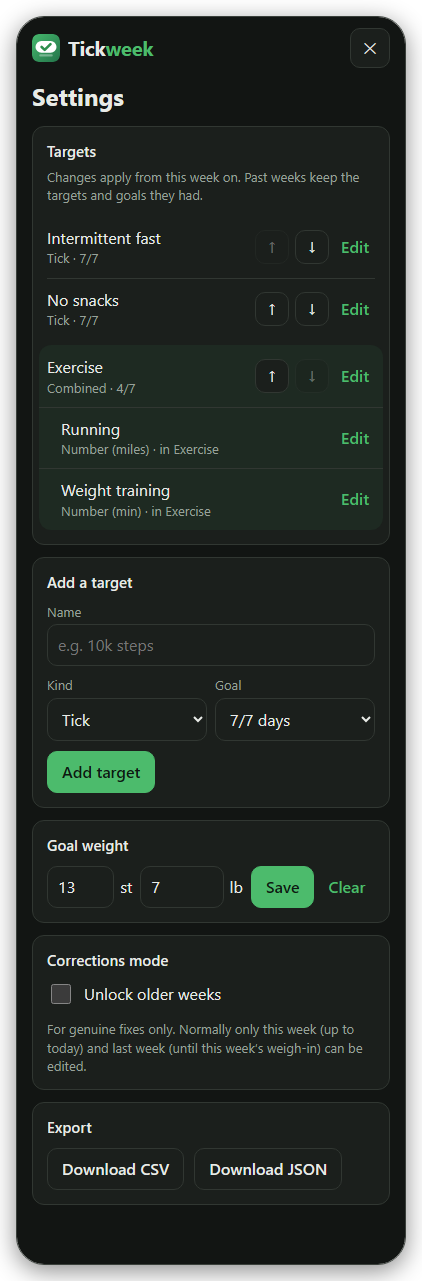
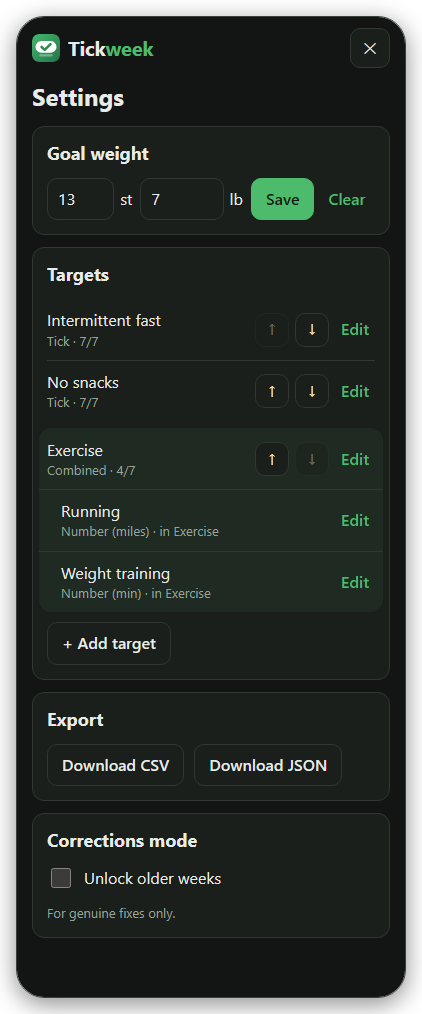
Release 0.8.0: tidier Settings, delete retired targets (#26)
- Settings order: Goal weight, Targets (+ Add target opens the form in place), Retired, Export, Corrections last.
  Bigger card titles.
- Edit form shows the kind as a pill at the top; footer notes removed. Combined checklist labelled "Made up of",
  one per line, ticked ones first. Kind dropdown says what each kind is.
- Retired targets can be deleted for good (asks first; removes entries from every week). DELETE /api/targets/:id,
  retired only. Test added.
- Retire/Delete shown in red. Shorter copy.
- README Settings screenshots retaken; package.json and docker run tag bumped. No database change.

diff --git a/public/js/settings.js b/public/js/settings.js
@@ -12,15 +12,19 @@ const goalOptions = (sel, none) => [
 ];
 const byId = (id) => targets.find((t) => t.id === id);
 const sourcesOf = (t) => targets.filter((s) => s.part_of === t.id && !s.archived_at);
+/** Label over a combined target's checkboxes. */
+const SOURCES_LABEL = 'Made up of';
 const kindLabel = (t) => (t.kind === 'tick' ? 'Tick' : t.kind === 'number' ? `Number${t.unit ? ` (${t.unit})` : ''}` : 'Combined');
 function describe(t) {
   const goal = t.goal_days != null ? `${t.goal_days}/7` : t.part_of && byId(t.part_of) ? `in ${byId(t.part_of).name}` : 'no goal';
   const from = t.kind === 'combined' && !sourcesOf(t).length ? ' · counts nothing yet' : '';
   return `${kindLabel(t)}${from} · ${goal}`;
 }
-/** Checkboxes for a combined target's sources: every active tick/number target. */
+/** Checkboxes for a combined target's sources: every active tick/number target, one per line, picked ones first. */
 function sourceChecks(selfId, picked) {
-  return h('div', { class: 'checks' }, targets.filter((t) => !t.archived_at && t.kind !== 'combined').map((t) =>
+  const pool = targets.filter((t) => !t.archived_at && t.kind !== 'combined');
+  const sorted = [...pool.filter((t) => picked.includes(t.id)), ...pool.filter((t) => !picked.includes(t.id))];
+  return h('div', { class: 'checks' }, sorted.map((t) =>
     h('label', { class: 'chk' },
       h('input', { type: 'checkbox', value: t.id, checked: picked.includes(t.id) }),
       t.name,
@@ -55,6 +59,8 @@ function renderTargets() {
   $('archivedcard').classList.toggle('hidden', !archived.length);
   $('archived').replaceChildren(...archived.map((t) => h('li', {},
     h('div', { class: 'info' }, h('div', {}, t.name), h('div', { class: 'meta' }, describe(t))),
+    h('button', { class: 'btn link danger', onclick: () => confirm(`Delete “${t.name}” forever? Its ticks go from every past week too, so old scores change. This can’t be undone.`)
+      && act(`/api/targets/${t.id}`, 'DELETE', null, 'Deleted') }, 'Delete'),
     h('button', { class: 'btn', onclick: () => act(`/api/targets/${t.id}/unarchive`, 'POST', null, 'Restored') }, 'Restore'),
   )));
 }
@@ -85,19 +91,21 @@ function editRow(t) {
     const body = { name: name.value, unit: unit?.value };
     if (goal) body.goal_days = goal.value === '' ? null : Number(goal.value);
     if (checks) body.sources = checkedIds(checks);
-    act(`/api/targets/${t.id}`, 'PATCH', body, 'Saved').then((ok) => { if (ok) editingId = null; renderTargets(); });
+    act(`/api/targets/${t.id}`, 'PATCH', body, 'Saved, from this week on').then((ok) => { if (ok) editingId = null; renderTargets(); });
   };
   const freed = combined ? sourcesOf(t).map((s) => s.name) : [];
   const retireMsg = `Retire “${t.name}”? It disappears from this week on; its history stays.`
     + (freed.length ? ` ${freed.join(' and ')} will have no goal until you set one.` : '');
   return h('li', {},
     h('div', { class: 'form', style: 'flex:1' },
+      h('div', { class: 'edithead' }, h('span', { class: `pill kind${combined ? ' combined' : ''}` }, kindLabel(t)),
+        src ? h('span', { class: 'small muted' }, `in ${byId(t.part_of).name}`) : null),
       h('label', {}, h('span', {}, 'Name'), name),
       h('div', { class: 'two' },
         unit ? h('label', {}, h('span', {}, 'Unit'), unit) : null,
         goal ? h('label', {}, h('span', {}, 'Goal'), goal) : null,
       ),
-      checks ? h('div', {}, h('span', { class: 'small muted' }, 'Counts'), checks) : null,
+      checks ? h('div', {}, h('span', { class: 'small muted srclabel' }, SOURCES_LABEL), checks) : null,
       h('div', { class: 'row' },
         h('button', { class: 'btn primary', onclick: save }, 'Save'),
         h('button', { class: 'btn link', onclick: () => { editingId = null; renderTargets(); } }, 'Cancel'),
@@ -107,9 +115,6 @@ function editRow(t) {
             && act(`/api/targets/${t.id}/archive`, 'POST', null, 'Retired').then((ok) => { if (ok) { editingId = null; renderTargets(); } }),
         }, 'Retire'),
       ),
-      h('div', { class: 'small muted' }, src
-        ? `Counts towards ${byId(t.part_of).name}, so it has no goal of its own`
-        : `${kindLabel(t).split(' ')[0]} target (the kind can’t change once created)`),
     ),
   );
 }
@@ -138,6 +143,11 @@ function syncKind() {
   const sel = F.goal_days.value === '' ? null : Number(F.goal_days.value);
   F.goal_days.replaceChildren(...goalOptions(k === 'combined' ? sel ?? 4 : sel, k !== 'combined').filter(Boolean));
 }
+form.querySelector('.srclabel').textContent = SOURCES_LABEL;
+const openAdd = (open) => { form.classList.toggle('hidden', !open); $('addopen').classList.toggle('hidden', open); if (open) F.name.focus(); };
+function closeAdd() { form.reset(); syncKind(); openAdd(false); }
+$('addopen').addEventListener('click', () => openAdd(true));
+$('addcancel').addEventListener('click', closeAdd);
 F.goal_days.append(...goalOptions(7, true).filter(Boolean));
 F.kind.addEventListener('change', syncKind);
 form.addEventListener('submit', async (e) => {
@@ -145,7 +155,7 @@ form.addEventListener('submit', async (e) => {
   const body = { name: F.name.value, kind: F.kind.value, unit: F.unit.value, goal_days: F.goal_days.value === '' ? null : Number(F.goal_days.value) };
   if (body.kind === 'combined') body.sources = checkedIds($('addsources'));
   const ok = await act('/api/targets', 'POST', body, 'Added');
-  if (ok) { form.reset(); syncKind(); renderAddSources(); }
+  if (ok) { closeAdd(); renderAddSources(); }
 });
 
 // ---------- goal weight + corrections ----------

diff --git a/public/settings.html b/public/settings.html
@@ -14,7 +14,7 @@
   <meta name="apple-mobile-web-app-title" content="Tickweek">
   <meta name="apple-mobile-web-app-status-bar-style" content="black-translucent">
 </head>
-<body>
+<body class="settings">
 <main>
   <header class="top">
     <a class="brand" href="/"><img src="/icons/favicon.svg" alt="" width="28" height="28"><span class="wm">Tick<span>week</span></span></a>
@@ -22,32 +22,6 @@
   </header>
 
   <h1 class="pagetitle">Settings</h1>
-
-  <section class="card">
-    <h2>Targets</h2>
-    <p class="small muted" style="margin-top:-4px">Changes apply from this week on. Past weeks keep the targets and goals they had.</p>
-    <ul class="tlist" id="targets"></ul>
-  </section>
-
-  <section class="card">
-    <h2>Add a target</h2>
-    <form class="form" id="addform" autocomplete="off">
-      <label><span>Name</span><input type="text" name="name" maxlength="40" required placeholder="e.g. 10k steps"></label>
-      <div class="two">
-        <label><span>Kind</span>
-          <select name="kind">
-            <option value="tick">Tick</option>
-            <option value="number">Number</option>
-            <option value="combined">Combined</option>
-          </select>
-        </label>
-        <label class="unitfield hidden"><span>Unit</span><input type="text" name="unit" maxlength="12" placeholder="miles, min…"></label>
-        <label><span>Goal</span><select name="goal_days"></select></label>
-      </div>
-      <div class="sourcesfield hidden"><span class="small muted">Counts</span><div id="addsources"></div></div>
-      <div><button class="btn primary" type="submit">Add target</button></div>
-    </form>
-  </section>
 
   <section class="card">
     <h2>Goal weight</h2>
@@ -60,14 +34,33 @@
   </section>
 
   <section class="card">
-    <h2>Corrections mode</h2>
-    <label class="switch"><input type="checkbox" id="corrections"> Unlock older weeks</label>
-    <p class="small muted" style="margin-bottom:0">For genuine fixes only. Normally only this week (up to today) and last week (until this week’s weigh-in) can be edited.</p>
+    <h2>Targets</h2>
+    <ul class="tlist" id="targets"></ul>
+    <button class="btn" id="addopen" type="button">+ Add target</button>
+    <form class="form addform hidden" id="addform" autocomplete="off">
+      <label><span>Name</span><input type="text" name="name" maxlength="40" required placeholder="e.g. 10k steps"></label>
+      <label><span>Kind</span>
+        <select name="kind">
+          <option value="tick">Tick: done or not</option>
+          <option value="number">Number: miles, min…</option>
+          <option value="combined">Combined: any of others</option>
+        </select>
+      </label>
+      <div class="two">
+        <label class="unitfield hidden"><span>Unit</span><input type="text" name="unit" maxlength="12" placeholder="miles, min…"></label>
+        <label><span>Goal</span><select name="goal_days"></select></label>
+      </div>
+      <div class="sourcesfield hidden"><span class="small muted srclabel"></span><div id="addsources"></div></div>
+      <div class="row">
+        <button class="btn primary" type="submit">Add</button>
+        <button class="btn link" type="button" id="addcancel">Cancel</button>
+      </div>
+    </form>
   </section>
 
   <section class="card hidden" id="archivedcard">
     <h2>Retired targets</h2>
-    <p class="small muted" style="margin-top:-4px">History and records are kept. Restoring adds the target back from this week on.</p>
+    <p class="small muted" style="margin-top:-4px">History kept. Restore adds it back from this week; Delete removes it for good.</p>
     <ul class="tlist" id="archived"></ul>
   </section>
 
@@ -77,6 +70,12 @@
       <a class="btn" href="/api/export.csv" download>Download CSV</a>
       <a class="btn" href="/api/export.json" download>Download JSON</a>
     </div>
+  </section>
+
+  <section class="card">
+    <h2>Corrections mode</h2>
+    <label class="switch"><input type="checkbox" id="corrections"> Unlock older weeks</label>
+    <p class="small muted" style="margin-bottom:0">For genuine fixes only.</p>
   </section>
 </main>
 <script type="module" src="/js/settings.js"></script>

diff --git a/public/style.css b/public/style.css
@@ -162,7 +162,8 @@ input.n3 { width: 5.2em; }
 }
 a.btn { display: inline-block; text-decoration: none; color: var(--text); }
 .btn.primary { background: var(--accent); border-color: var(--accent); color: var(--accent-text); }
-.btn.danger { color: var(--danger); }
+.btn.danger, .btn.link.danger { color: var(--danger); }
+.settings .card h2 { font-size: 18px; font-weight: 700; margin-bottom: 12px; }
 .btn.link { border: 0; background: none; color: var(--accent); padding: 4px 6px; font-weight: 500; }
 .btn:disabled { opacity: .5; cursor: default; }
 
@@ -194,8 +195,12 @@ dialog.pad::backdrop { background: rgba(0,0,0,.45); }
 .form .two > * { flex: 1; min-width: 120px; }
 .form label > span { display: block; font-size: 13px; color: var(--muted); margin-bottom: 3px; }
 .form input, .form select { width: 100%; }
-.checks { display: flex; flex-wrap: wrap; gap: 6px 16px; margin-top: 4px; }
-.checks .chk { display: inline-flex; align-items: center; gap: 6px; }
+.checks { display: grid; gap: 8px; margin-top: 6px; }
+.checks .chk { display: flex; align-items: center; gap: 8px; }
+.edithead { display: flex; align-items: center; gap: 8px; }
+.pill.kind.combined { background: var(--accent-soft); color: var(--accent); font-weight: 600; }
+#addopen { margin-top: 10px; }
+.addform { margin-top: 12px; padding-top: 12px; border-top: 1px solid var(--line); }
 .form .checks input { width: 18px; height: 18px; accent-color: var(--accent); }
 .tlist li.src { padding-left: 14px; }
 .tlist li.grp { margin: 0 -8px; padding-left: 8px; padding-right: 8px; background: color-mix(in srgb, var(--accent) 7%, var(--surface)); }

diff --git a/test/api.test.js b/test/api.test.js
@@ -110,6 +110,17 @@ test('target changes apply from the current week on; past snapshot is kept', asy
   assert.ok(last.targets.some((t) => t.name === 'No snacks'));
 });
 
+test('only a retired target can be deleted, with its entries and snapshots', async () => {
+  const { body: tmp } = await call('POST', '/api/targets', { name: 'Temp', kind: 'tick', goal_days: 3 });
+  await call('PUT', '/api/entry', { date: (await call('GET', '/api/week')).body.monday, target_id: tmp.id, value: 1 });
+  assert.equal((await call('DELETE', `/api/targets/${tmp.id}`)).status, 400);
+  await call('POST', `/api/targets/${tmp.id}/archive`);
+  assert.equal((await call('DELETE', `/api/targets/${tmp.id}`)).status, 200);
+  assert.ok(!(await call('GET', '/api/targets')).body.some((t) => t.name === 'Temp'));
+  assert.ok(!(await call('GET', '/api/week')).body.targets.some((t) => t.name === 'Temp'));
+  assert.equal((await call('GET', '/api/history')).status, 200);
+});
+
 test('validation', async () => {
   assert.equal((await call('POST', '/api/targets', { name: '', kind: 'tick' })).status, 400);
   assert.equal((await call('POST', '/api/targets', { name: 'x', kind: 'tick', goal_days: 8 })).status, 400);

diff --git a/src/db.js b/src/db.js
@@ -124,6 +124,10 @@ export function makeRepo(db) {
     clearSources: db.prepare('UPDATE target SET part_of = NULL WHERE part_of = ?'),
     addSource: db.prepare('UPDATE target SET part_of = ?, goal_days = NULL WHERE id = ?'),
     leave: db.prepare('UPDATE target SET part_of = NULL WHERE id = ?'),
+    purgeEntries: db.prepare('DELETE FROM entry WHERE target_id = ?'),
+    purgeSnapshots: db.prepare('DELETE FROM week_target WHERE target_id = ?'),
+    ungroupSnapshots: db.prepare('UPDATE week_target SET part_of = NULL WHERE part_of = ?'),
+    deleteTarget: db.prepare('DELETE FROM target WHERE id = ?'),
   };
 
   const repo = {
@@ -221,6 +225,16 @@ export function makeRepo(db) {
       })();
     },
     unarchive: (id) => q.unarchive.run(q.maxSort.get().m + 1, id),
+    /** Deleting a retired target removes it everywhere, past weeks included (their scores change). */
+    remove(id) {
+      db.transaction(() => {
+        q.clearSources.run(id);
+        q.ungroupSnapshots.run(id);
+        q.purgeEntries.run(id);
+        q.purgeSnapshots.run(id);
+        q.deleteTarget.run(id);
+      })();
+    },
   };
 
   function writeSnapshot(monday) {

diff --git a/public/help.html b/public/help.html
@@ -71,7 +71,7 @@
   <section class="card">
     <h2>5 · Settings</h2>
     <ul>
-      <li>Add, rename, reorder or retire targets, and set how many days a week each one asks for.</li>
+      <li>Add, rename, reorder or retire targets (a retired one can be deleted for good), and set how many days a week each one asks for.</li>
       <li>A combined target counts other targets together. Those count towards it and have no goal of their own.</li>
       <li>Set your goal weight.</li>
       <li>Changes apply from this week on. Past weeks keep the targets they had.</li>

diff --git a/src/app.js b/src/app.js
@@ -241,6 +241,14 @@ export function createApp({ repo, now = () => new Date() }) {
     res.json(repo.target(t.id));
   });
 
+  app.delete('/api/targets/:id', (req, res) => {
+    const t = mustTarget(req.params.id);
+    if (!t.archived_at) fail('retire it first');
+    repo.remove(t.id);
+    afterTargetChange();
+    res.json({ ok: true });
+  });
+
   // ---------- export ----------
   app.get('/api/export.json', (req, res) => {
     const today = todayISO(now());

diff --git a/docs/changelogs/2026-11.md b/docs/changelogs/2026-11.md
@@ -1,5 +1,25 @@
 # Changelog: November 2026
 
+## 20 Nov 2026: v0.8.0
+
+- Released **v0.8.0**: tidier Settings and deleting retired targets. README Settings screenshots retaken.
+  `package.json` and the README `docker run` tag bumped. No database change.
+
+## 20 Nov 2026: tidier Settings, delete retired targets
+
+- Settings order: Goal weight, Targets, Retired, Export, Corrections mode last. Card titles bigger.
+- "Add a target" is no longer its own card: **+ Add target** under the list opens the form in place, with Cancel.
+- The Kind dropdown says what each kind is ("Tick: done or not", "Number: miles, min…", "Combined: any of others").
+- Editing a target shows its kind as a pill at the top (Combined in green; a source also shows "in Exercise"). The
+  footer notes ("the kind can't change once created", "Counts towards…") are gone.
+- A combined target's checklist is labelled **Made up of** (was "Counts"), one per line, ticked ones first. Rendered
+  "Ticks when any is done" vs "Made up of" (light + dark); "Made up of" chosen.
+- Shorter copy: the Targets intro line is gone (the Saved toast says "Saved, from this week on"); Retired and
+  Corrections text cut down.
+- Retire and the new Delete show in red (a CSS clash had made them green).
+- **Delete** for retired targets: asks first, then removes the target with its entries from every week, so past
+  scores can change. `DELETE /api/targets/:id` (only retired targets; an active one gets 400). Test added (29).
+
 ## 20 Nov 2026: v0.7.0
 
 - Released **v0.7.0**: star days for every goal (★ in the day header), the week in a word, a simpler weigh-in card,

diff --git a/README.md b/README.md
@@ -98,7 +98,7 @@ Tickweek is built around a few simple ideas for closing that gap:
 
 <picture>
   <source media="(prefers-color-scheme: dark)" srcset="docs/screenshots/settings-dark.png">
-  <img src="docs/screenshots/settings-light.png" width="280" alt="Settings: targets with reorder and edit (Running and Weight training listed under Exercise), add a target, goal weight, corrections mode and data export">
+  <img src="docs/screenshots/settings-light.png" width="280" alt="Settings: goal weight, targets with reorder and edit (Running and Weight training listed under Exercise), add a target, data export and corrections mode">
 </picture>
 
 </td>
@@ -111,6 +111,7 @@ Tickweek is built around a few simple ideas for closing that gap:
 - Add your targets: a simple tick, or a number with a unit. Say how many days a week each one asks for.
 - Combine targets: Exercise 4 days a week, done by either a run or a weights session.
 - Rename, reorder or retire them at any time. Changes apply from this week on; past weeks keep their scores.
+  A retired target can also be deleted for good.
 - Set a goal weight to see your progress towards it.
 - Export your data any time: CSV (one row per day, opens in a spreadsheet) or JSON (everything).
 
@@ -138,7 +139,7 @@ docker run -d --name tickweek \
   -p 3000:3000 \
   -v /path/to/tickweek-data:/data \
   -e TZ=Europe/London \
-  ghcr.io/ajyounguk/tickweek:0.7.0
+  ghcr.io/ajyounguk/tickweek:0.8.0
 ```
 
 Then open `http://<your-server>:3000`, and on your phone use **Add to Home Screen**. Pin a version tag as above and

diff --git a/docs/design.md b/docs/design.md
@@ -41,6 +41,8 @@ Defaults: weeks start Monday, dates shown dd/mm, timezone Europe/London (`TZ` en
   days doesn't matter. A target can also have **no goal**: logged only, left out of scores, streaks and History dots.
 - **Changes apply from the current week on.** Each week keeps a snapshot of the targets and goals it had, so past scores
   never shift. Retiring a target archives it: its history and records stay.
+  A retired target can then be **deleted** for good (20 Nov 2026): its entries go from every week, so past scores
+  can change; it asks first. Only retired targets can be deleted.
 
 ## Weight
 
@@ -99,6 +101,9 @@ The current week's score and streaks are "in progress" until the week closes.
 4. **Settings**: targets (add/edit/reorder/retire, kind, unit, N/7), goal weight, the corrections switch, and
    **Export**: CSV (one row per day: date, weigh-in in kg and st/lb, a column per target) and JSON (everything,
    lossless). *(Added 16 Nov 2026.)*
+   Order (20 Nov 2026): Goal weight, Targets (with "+ Add target" opening the form in place), Retired, Export,
+   Corrections last. Editing shows the kind as a pill at the top (Combined in green); a combined target's sources are
+   picked under **"Made up of"**, one per line, ticked ones first. The Kind dropdown says what each kind is.
 
 ## Edit window
 
